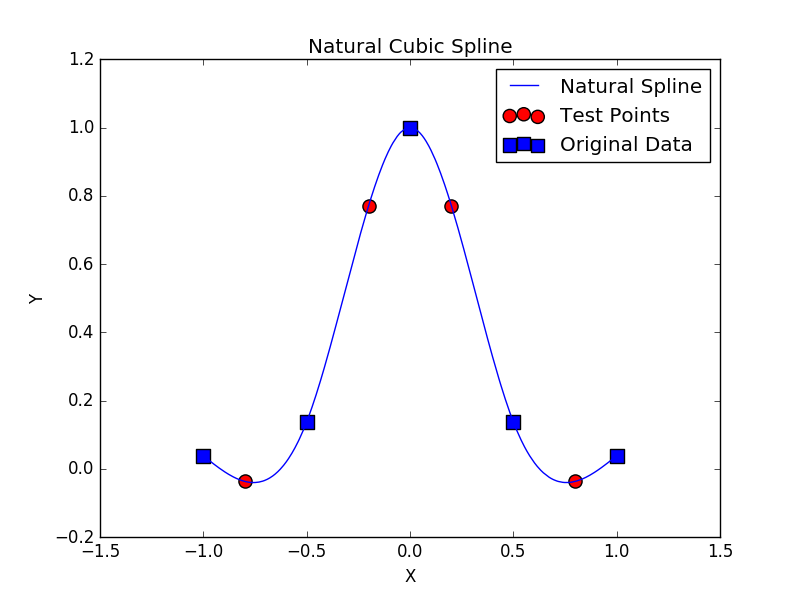
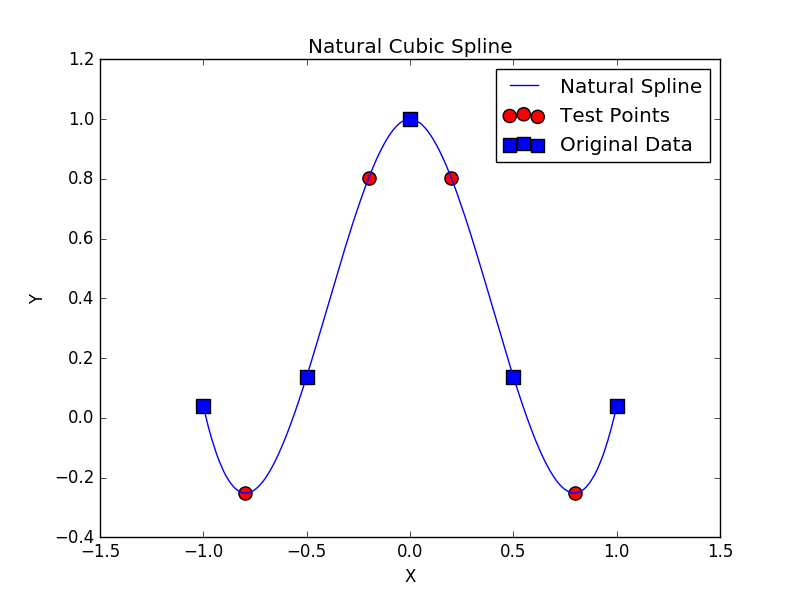
Done with Not-a-knot Spline

diff --git a/Not-a-knot-CubicSpline.py b/Not-a-knot-CubicSpline.py
@@ -1,0 +1,73 @@
+x = []
+y = []
+xt = []
+with open("input.txt") as f:
+    for line in f:
+        if line == "\n": break
+        x.append(float(line.split(" ")[0]))
+        y.append(float(line.split(" ")[1]))
+    for line in f:
+        if line == "\n": break
+        xt.append(float(line.split(" ")[0]))
+    for line in f:
+        so = float(line.split(" ")[0])
+        sn = float(line.split(" ")[1])
+
+xy = zip(x,y)
+xy.sort()
+y = [a for b,a in xy]
+x = [b for b,a in xy]
+
+h =[x[i]-x[i-1] for i in range(1,len(x))]
+g = [(y[i]-y[i-1])/h[i-1] for i in range(1,len(x))]
+
+G = [6*(g[i]-g[i-1]) for i in range(1,len(g))]
+H = []
+for i in range(len(h)-1):
+    row = [0 for t in range(i)] + [h[i],2*(h[i]+h[i+1]),h[i+1]] + [0 for t in range(len(h)-2-i)]
+    H.append(row)
+
+import numpy as np
+
+# Not a knot Spline
+G = [0] + G + [0]
+H = [[h[1],-h[1]-h[0],h[0]] + [0 for t in range(len(h)-2)]] + H + [[0 for t in range(len(h)-2)] + [h[-1],-h[-1]-h[-2],h[-2]]]
+sigma = np.linalg.solve(H,G).tolist()
+
+
+A = [sigma[i+1]/(6*h[i]) for i in range(len(h))]
+B = [sigma[i]/(6*h[i]) for i in range(len(h))]
+C = [(y[i+1]/h[i])-(sigma[i+1]*h[i]/6) for i in range(len(h))]
+D = [(y[i]/h[i])-(sigma[i]*h[i]/6) for i in range(len(h))]
+def get_prediction(x,y,h,sigma,xstar):
+    try:
+        i = next(v[0] for v in enumerate(x) if v[1] > xstar)
+        return (A[i-1]*(xstar - x[i-1])**3) - (B[i-1]*(xstar-x[i])**3)+(C[i-1]*(xstar-x[i-1])) - (D[i-1]*(xstar-x[i]))
+    except:
+        return y[-1]
+
+   
+yt = []
+for xstar in xt:
+    ystar = get_prediction(x,y,h,sigma,xstar)
+    yt.append(ystar)
+    print xstar,"\t",ystar
+
+import random
+t = [random.random()*(max(x) - min(x)) + min(x) for i in range(100*len(x))] + x
+t.sort()
+ty = [get_prediction(x,y,h,sigma,t[i]) for i in range(len(t))]
+
+
+import matplotlib.pyplot as plt
+fig = plt.figure()
+ax = fig.add_subplot(111)
+ax.set_title("Not-a-knot Cubic Spline")
+ax.set_ylabel("Y")
+ax.set_xlabel("X")
+ax.plot(t,ty, "-", label='Not-a-knot Spline')
+ax.scatter(xt,yt, s=90, c='r', marker="o",label="Test Points")
+ax.scatter(x,y, s=90, c='b', marker="s",label="Original Data")
+plt.legend(loc='best')
+plt.show()
+fig.savefig("Not-a-knot Cubic Spline Plot.png")
